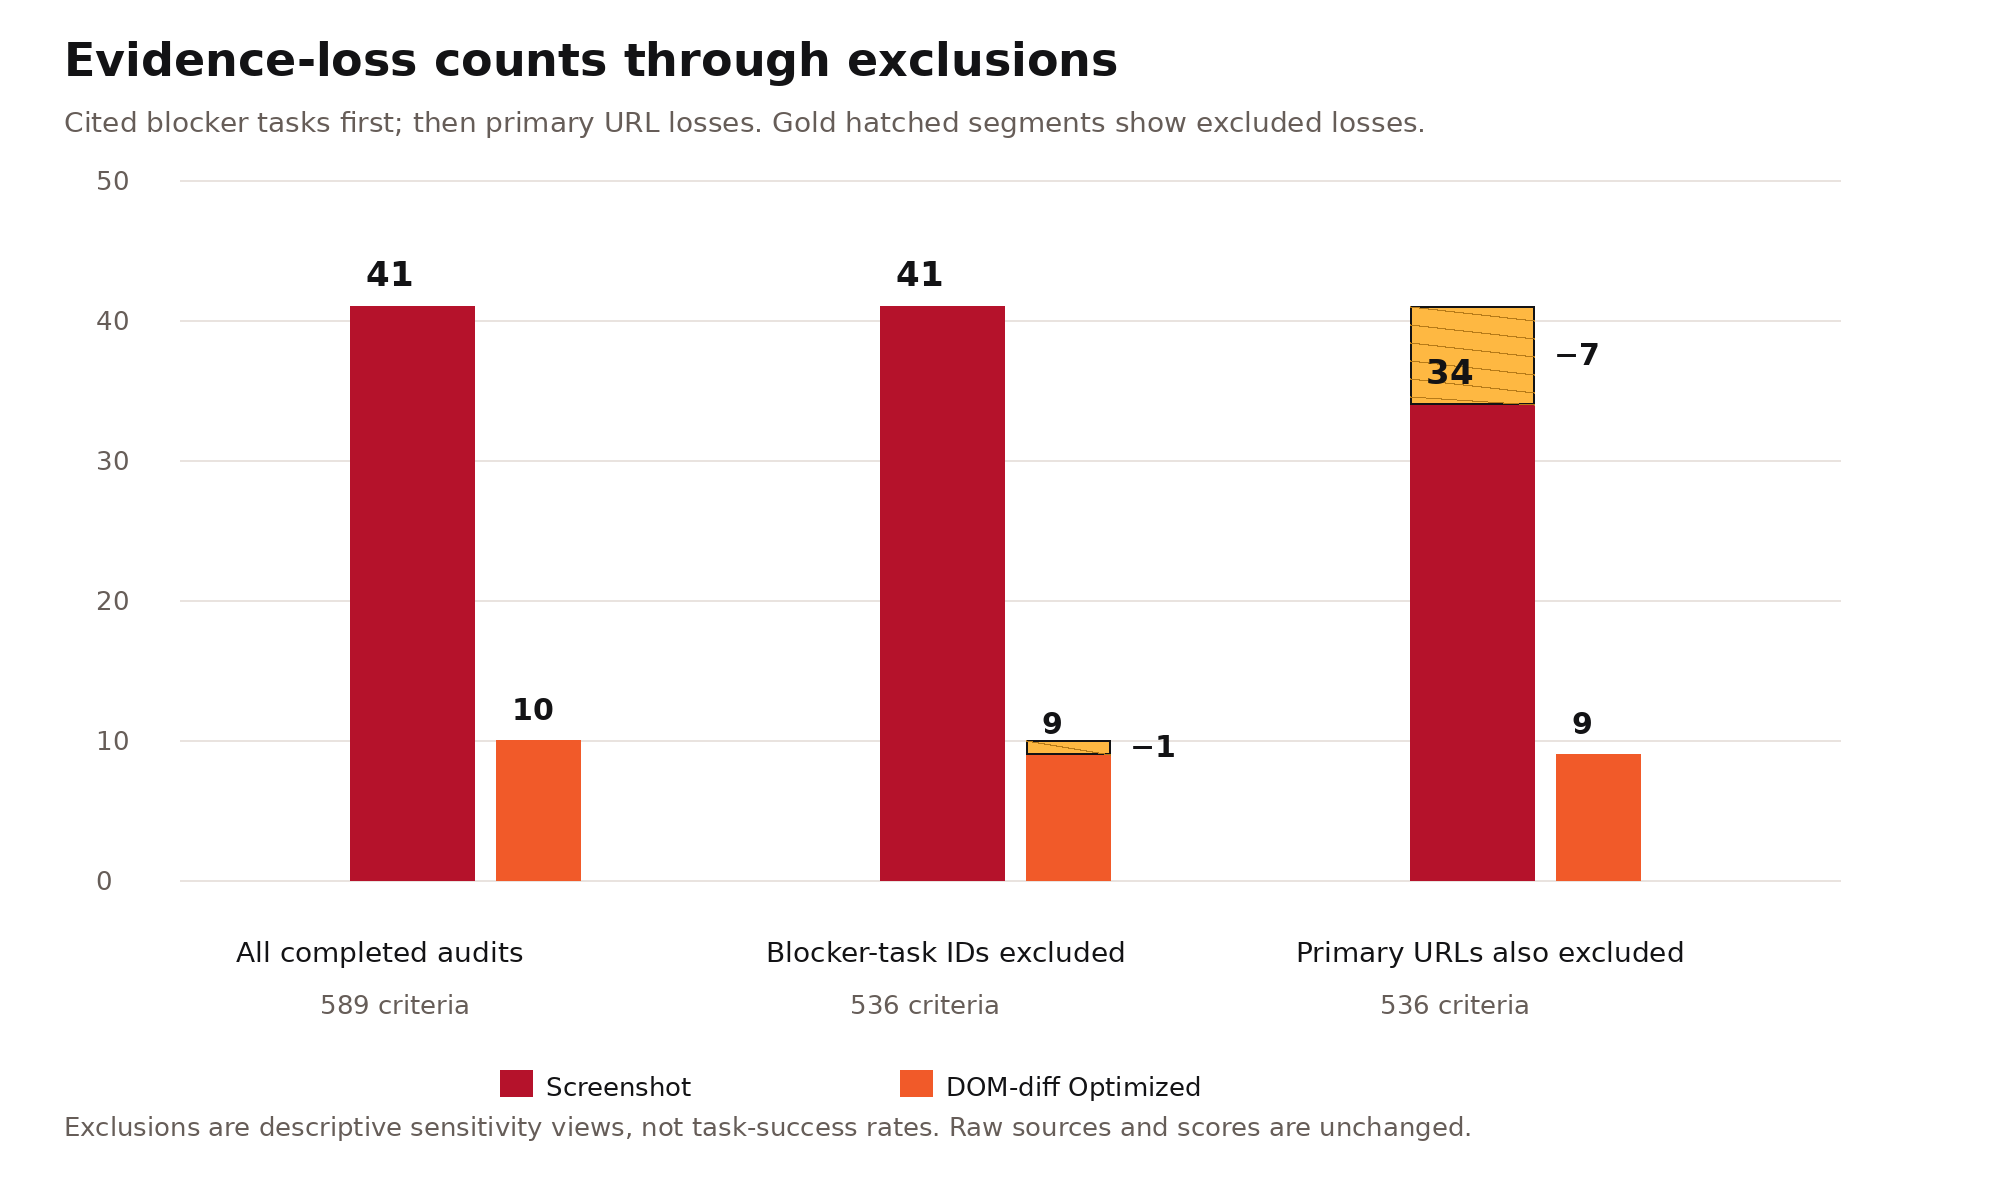
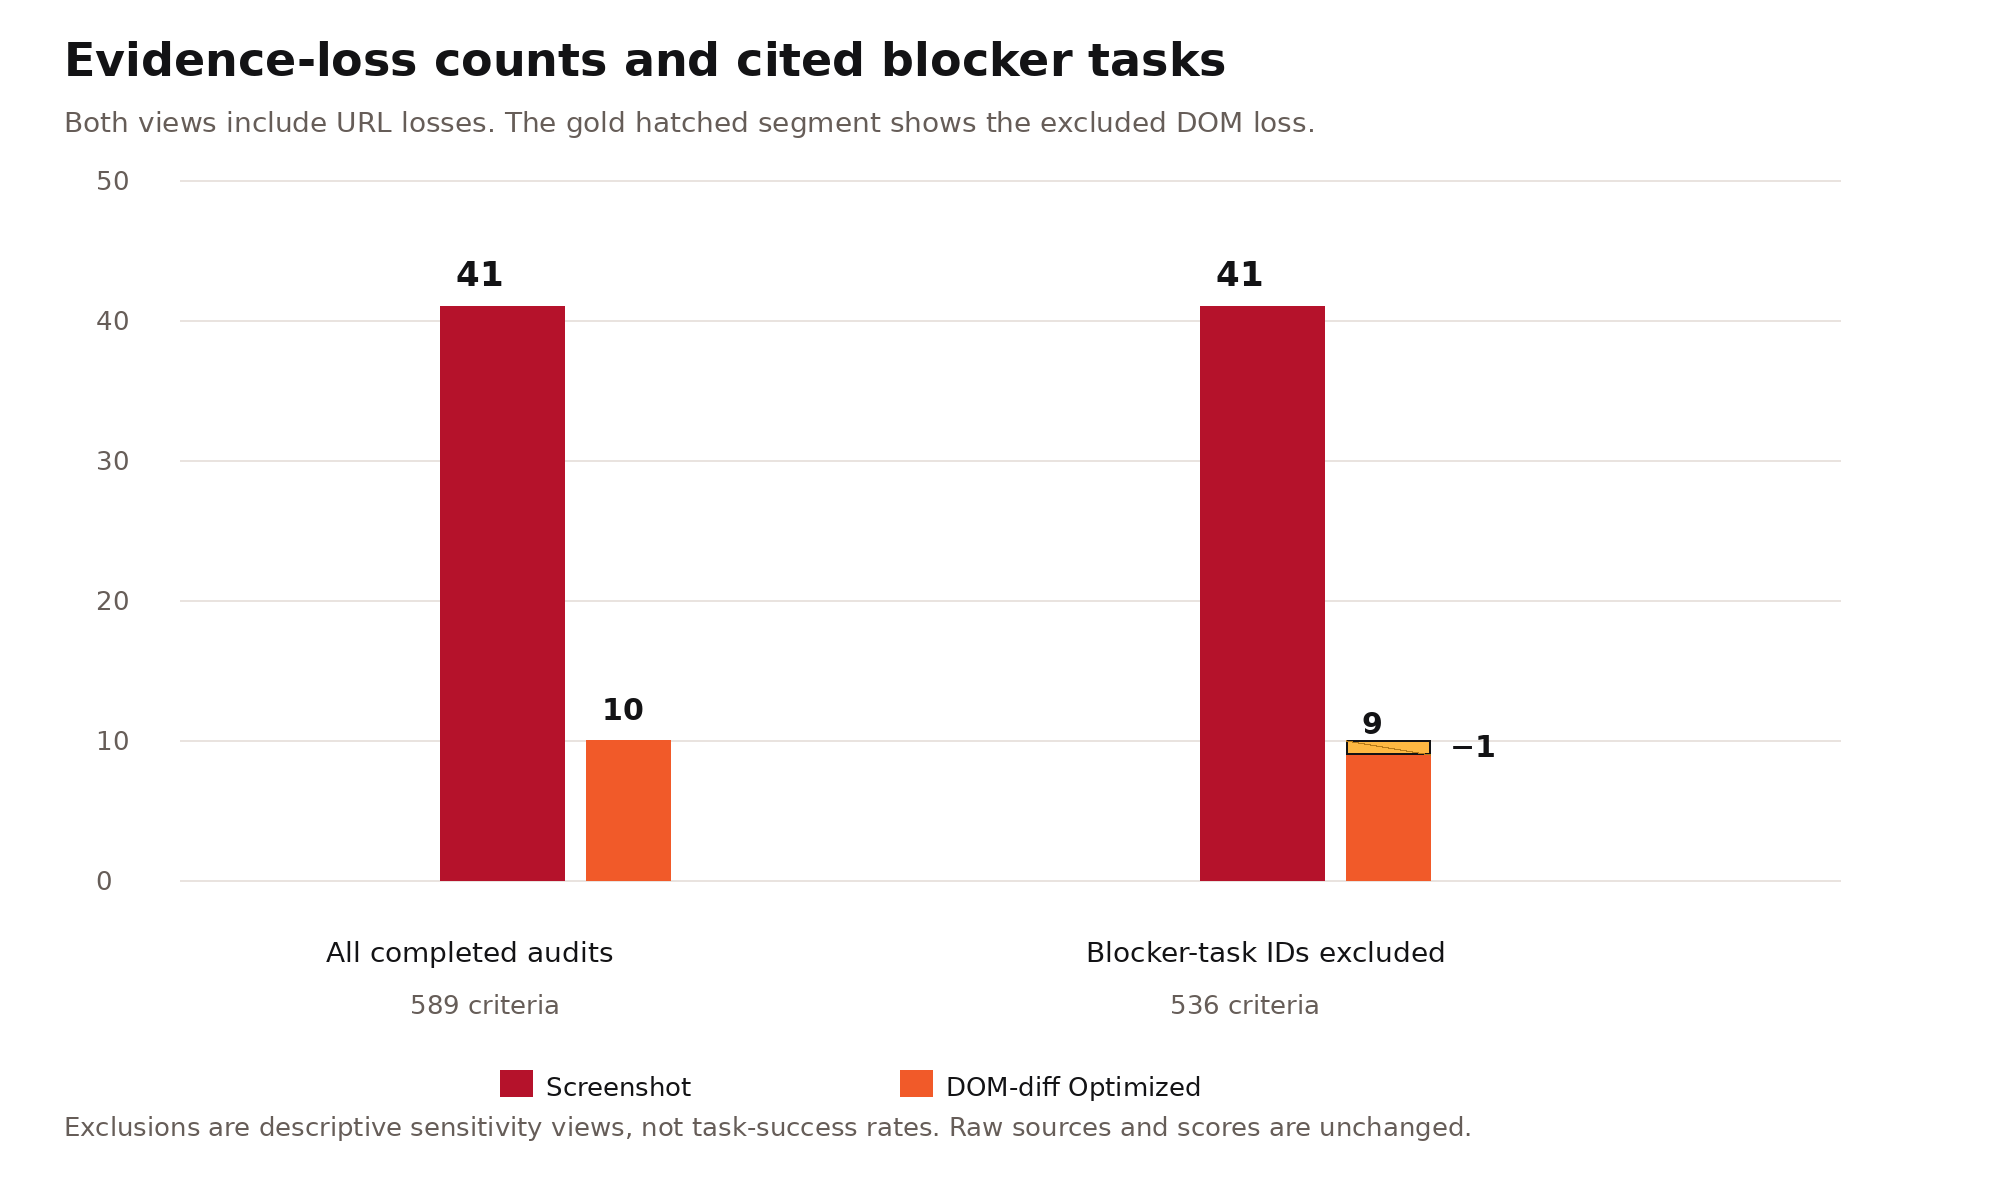
Simplify evidence-loss tables and figures

diff --git a/README.md b/README.md
@@ -9,7 +9,7 @@ state. The recorder, paired verifiers, and evidence audit make it possible
 to inspect what a browser agent observed and which required information each
 representation preserved.
 
-The collection contains **100 recorded browser tasks** and **92 evaluated task pairs**. Validated evidence audits cover **92 tasks and 589 criteria**, identifying **41 screenshot losses (6.96%)** and **10 DOM losses (1.70%)**. Observed URLs in the shared formatted history count for both verifiers. Seven remaining screenshot losses concern URL details unavailable in that shared evidence; excluding the primary URL category leaves 34 screenshot losses and 10 DOM losses, with all 589 criteria retained. These measurements describe evidence availability, not task success or acting-agent improvement.
+The collection contains **100 recorded browser tasks** and **92 evaluated task pairs**. Validated evidence audits cover **92 tasks and 589 criteria**, identifying **41 screenshot losses (6.96%)** and **10 DOM losses (1.70%)**. Observed URLs in the shared formatted history count for both verifiers. These measurements describe evidence availability, not task success or acting-agent improvement.
 
 Of 100 recorded tasks, 92 had usable, aligned evidence for evaluation; 8 were excluded because captures were missing/incomplete or failed URL alignment. All 92 evaluated tasks have validated evidence audits covering 589 criteria.
 
@@ -110,17 +110,17 @@ Of 100 recorded tasks, 92 had usable, aligned evidence for evaluation; 8 were ex
 | Analysis | Tasks | Audited criteria | Screenshot losses | DOM losses |
 | --- | ---: | ---: | ---: | ---: |
 | All source-evidence loss categories | 92 | 589 | **41 (6.96%)** | **10 (1.70%)** |
-| URL loss category excluded | 92 | 589 | **34 (5.77%)** | **10 (1.70%)** |
 | Listed access-blocked task IDs excluded | 83 | 536 | **41 (7.65%)** | **9 (1.68%)** |
-| Listed access-blocked task IDs and URL loss category excluded | 83 | 536 | **34 (6.34%)** | **9 (1.68%)** |
 
-Excluding the primary URL category removes those losses from the numerator and retains every audited criterion. Excluding the nine cited blocker-task IDs removes their 53 criteria. The [report defines both exclusions](docs/technical-report.md#analysis-excluding-the-listed-access-blocked-tasks), and separately gives alternatives that remove entire criteria with primary URL findings.
+Excluding the nine cited blocker-task IDs removes their 53 criteria. The [report defines that subset](docs/technical-report.md#analysis-excluding-the-listed-access-blocked-tasks).
 
-![Screenshot and DOM evidence-loss rates for the full audited dataset and the subset excluding listed blocked-task IDs, with and without primary URL losses.](docs/assets/evaluations/evidence-loss-rates.png)
+![Screenshot and DOM evidence-loss rates for all audited tasks and the subset excluding listed blocked-task IDs.](docs/assets/evaluations/evidence-loss-rates.png)
 
 The 95% intervals resample whole tasks, preserving correlation among criteria within a task. They assume independent tasks and do not measure annotation error. Counts, intervals and paired outcomes are in the [technical report](docs/technical-report.md#url-sensitivity-and-paired-comparison).
 
-### Why URL sensitivity matters
+<a id="why-url-sensitivity-matters"></a>
+
+### URL evidence
 
 Screenshot capture omits the browser’s address bar, but observed URLs in the
 formatted action history are available to both verifiers. A URL absent from
@@ -133,9 +133,9 @@ For example, task_50 retains `date=2020:2026` only in the DOM URL. The remaining
 losses concern information unavailable in the shared history, not URLs already
 supplied to both verifiers.
 
-DOM has **75.61% fewer losses** across all categories and **70.59% fewer non-URL
-losses**. The URL-excluded view recalculates saved findings; it is not an
-experiment that changes screenshots, rubrics or verifier scores.
+DOM has **75.61% fewer losses** across all categories. The
+[technical report](docs/technical-report.md#url-sensitivity-and-paired-comparison)
+retains supplementary URL-excluded calculations.
 
 ### What the findings show
 
@@ -150,7 +150,6 @@ The audits identify **50 affected criteria across 28 tasks**. One criterion has 
 | Label–value links | 3 | 4 |
 | Capture omissions | 4 | 2 |
 | **All categories** | **41** | **10** |
-| **Non-URL subtotal** | **34** | **10** |
 
 Examples show the practical differences:
 
@@ -161,9 +160,9 @@ Examples show the practical differences:
 
 The detailed findings and evidence links are in the [report’s six-column criterion table](docs/technical-report.md#source-evidence-gaps-by-task-and-criterion). Category annotations summarize the saved findings; they do not change verifier scores or audit decisions.
 
-![Non-URL evidence losses by category for all completed audits and the subset excluding cited blocker-task IDs.](docs/assets/evaluations/non-url-loss-categories.png)
+![Evidence losses across all six categories for all completed audits and the subset excluding cited blocker-task IDs.](docs/assets/evaluations/evidence-loss-categories.png)
 
-Each bar counts criterion-level losses in one representation. The panels retain all 589 and 536 criteria, respectively; URL losses are omitted so the smaller categories remain readable. PNG and SVG versions are in [evaluation figures](docs/assets/evaluations/).
+Each bar counts criterion-level losses in one representation, including URL losses. The panels retain all 589 and 536 criteria, respectively. PNG and SVG versions are in [evaluation figures](docs/assets/evaluations/).
 
 Website blockers, execution errors and source-evidence gaps are different events. The report lists nine cited blocker-task IDs and separately records 12 execution errors in the 100 recordings. Some blocked tasks later completed; the sets overlap and must not be added into a single failure rate.
 
@@ -244,7 +243,7 @@ For the saved findings, $`M=589`$, $`L_S=41`$, and $`L_D=10`$, giving **6.96%** 
 \mathrm{Reduction}=100\frac{L_S-L_D}{L_S}=100\frac{41-10}{41}\approx75.61\%.
 ```
 
-Excluding the seven primary URL-category losses keeps $`M=589`$ and gives $`L_S=34`$, $`L_D=10`$: **5.77%** and **1.70%**, with **70.59% fewer losses**. Excluding the nine cited blocker-task IDs removes 53 criteria, leaving $`M=536`$. These are descriptive sensitivity calculations on the saved findings.
+Excluding the nine cited blocker-task IDs removes 53 criteria, leaving $`M=536`$. This is a descriptive subset of the saved findings.
 
 ### Confidence intervals in the graph
 

diff --git a/docs/technical-report.md b/docs/technical-report.md
@@ -158,9 +158,9 @@ The completed audits identify **41 screenshot losses and 10 DOM losses** across 
 
 *Both rows retain all 589 audited criteria; the URL exclusion changes the numerator only.*
 
-![Screenshot and DOM evidence-loss rates for the full audited dataset and the subset excluding listed blocked-task IDs, with and without primary URL losses.](assets/evaluations/evidence-loss-rates.png)
+![Screenshot and DOM evidence-loss rates for all audited tasks and the subset excluding listed blocked-task IDs.](assets/evaluations/evidence-loss-rates.png)
 
-**Figure 1.** Evidence-loss rates for all completed audits and the subset excluding the nine cited blocker-task IDs, with and without primary URL losses. The 95% intervals resample whole tasks; they assume independent tasks and do not measure annotation error.
+**Figure 1.** Evidence-loss rates for all completed audits and the subset excluding the nine cited blocker-task IDs. Both include URL losses. The 95% intervals resample whole tasks; they assume independent tasks and do not measure annotation error.
 
 These counts measure evidence availability, not task success or answer correctness. A common loss concerns the same task/criterion and is already included in both marginal counts; each representation loses a different required item. The report first examines URL sensitivity and categories, then website blockers, execution failures, and evaluation provenance.
 
@@ -170,7 +170,7 @@ The screenshot capture mechanism cannot access the browser’s address/search ba
 
 Observed URLs in the formatted action history count for each verifier receiving them. Their absence from screenshot pixels or DOM text alone is not a loss. The formatter removes query strings and fragments and shortens URLs longer than 150 characters; omitted details cannot be restored by inference. A supplied start URL or navigation argument expresses intent, not proof of an observed destination.
 
-Primary URL categories account for **7/41 screenshot losses (17.07%)** and **0/10 DOM losses**. Excluding that category leaves **34 screenshot losses and 10 DOM losses**, with all 589 audited criteria retained.
+Primary URL categories account for **7/41 screenshot losses (17.07%)** and **0/10 DOM losses**. The headline results include these findings. As a supplementary sensitivity calculation, excluding that category leaves **34 screenshot losses and 10 DOM losses**, with all 589 audited criteria retained.
 
 The exclusion is applied separately to each representation’s loss. In [task_50 C0–C4](https://huggingface.co/datasets/WootzappLab/browser-agent-tasks/blob/main/evaluation/task_50/20261029T212045Z/evidence_audit.json), the DOM preserves the `date=2020:2026` request query while the shared observed history preserves only the endpoint path. Those five criteria depend on one query-range gap, not five independent capture failures. The non-URL findings affect **43 criteria across 25 tasks**.
 
@@ -218,9 +218,9 @@ The category breakdown shows which required information each representation lose
 
 *Counts cover 92 completed audits and 589 criteria. The 51 representation/criterion losses affect 50 distinct criteria because one criterion loses different items in both representations.*
 
-![Non-URL losses by category, for all completed audits and the subset excluding cited blocker tasks.](assets/evaluations/non-url-loss-categories.png)
+![Evidence losses across all six categories for all completed audits and the subset excluding cited blocker tasks.](assets/evaluations/evidence-loss-categories.png)
 
-**Figure 2.** The five non-URL categories share a count scale. The panels retain 589 and 536 audited criteria, respectively. URL losses are omitted so the smaller categories remain readable.
+**Figure 2.** All six categories share a count scale, including URL losses. The panels retain 589 and 536 audited criteria, respectively.
 
 ### Repeated capture gaps and mathematical notation
 
@@ -274,9 +274,9 @@ The task IDs are `task_01`, `task_06`, `task_07`, `task_14`, `task_15`, `task_22
 
 DOM has **78.05% fewer losses** across all categories and **73.53% fewer non-URL losses** in this subset.
 
-![Loss counts after excluding cited blocker-task IDs and primary URL losses.](assets/evaluations/exclusion-waterfall.png)
+![Loss counts before and after excluding cited blocker-task IDs.](assets/evaluations/exclusion-waterfall.png)
 
-**Figure 3.** Screenshot losses are 41, 41 and 34 across the three views; DOM losses are 10, 9 and 9. Excluding cited task IDs changes the denominator from 589 to 536; excluding the remaining seven primary URL losses keeps all 536 criteria. Gold hatched segments show excluded losses.
+**Figure 3.** Screenshot losses remain at 41; DOM losses change from 10 to 9 after excluding the cited blocker-task IDs. The denominator changes from 589 to 536 criteria. Both views include URL losses. The gold hatched segment shows the excluded DOM loss.
 
 #### Alternative: exclude entire criteria with URL findings
 

diff --git a/results/README.md b/results/README.md
@@ -7,9 +7,7 @@ Of 100 recorded tasks, 92 had usable, aligned evidence for evaluation; 8 were ex
 | Analysis | Tasks | Audited criteria | Screenshot losses | DOM losses |
 | --- | ---: | ---: | ---: | ---: |
 | All source-evidence loss categories | 92 | 589 | **41 (6.96%)** | **10 (1.70%)** |
-| URL loss category excluded | 92 | 589 | **34 (5.77%)** | **10 (1.70%)** |
 | Listed access-blocked task IDs excluded | 83 | 536 | **41 (7.65%)** | **9 (1.68%)** |
-| Listed access-blocked task IDs and URL loss category excluded | 83 | 536 | **34 (6.34%)** | **9 (1.68%)** |
 
 Selected results are in the [repository README](../README.md#evaluation-results).
 The [technical report](../docs/technical-report.md) documents the repository's
@@ -29,7 +27,7 @@ findings. [EVALUATIONS.md](EVALUATIONS.md) points to that report.
 
 One criterion has losses in both representations, affecting different required items. The marginal counts total 51 representation/criterion losses across 50 distinct affected criteria. All 589 audited criteria stay in the primary denominator, including 539 without a confirmed paired gap.
 
-Excluding seven primary screenshot URL losses leaves **34/589 (5.77%)** screenshot losses and **10/589 (1.70%)** DOM losses. Excluding the nine cited blocker-task IDs leaves **83 tasks and 536 criteria**. The report retains both views and alternatives removing entire URL criteria. Category labels are report annotations of saved findings.
+The totals include seven screenshot URL losses and no DOM URL losses. Excluding the nine cited blocker-task IDs leaves **83 tasks and 536 criteria**. Supplementary URL-excluded calculations remain in the technical report and `summary.json`. Category labels are report annotations of saved findings.
 
 The [protocol](../docs/evaluation-protocol.md) and [category guide](../docs/evidence-categories.md) define the rules. Intervals resample whole tasks and hold automated labels fixed; independent human review has not been established.
 

diff --git a/docs/evaluation-protocol.md b/docs/evaluation-protocol.md
@@ -98,7 +98,7 @@ arguments and a supplied start URL express intent, not an observed page.
 Query strings, fragments and text removed by the history formatter cannot be
 restored by inference. Citations distinguish shared history from page content.
 
-The primary URL-excluded analysis removes primary URL-category losses from
+The supplementary URL-excluded analysis removes primary URL-category losses from
 each representation’s numerator and keeps all audited criteria in the
 cohort denominator. It preserves non-URL losses on the other side of the
 same criterion. The report separately shows alternatives removing entire
